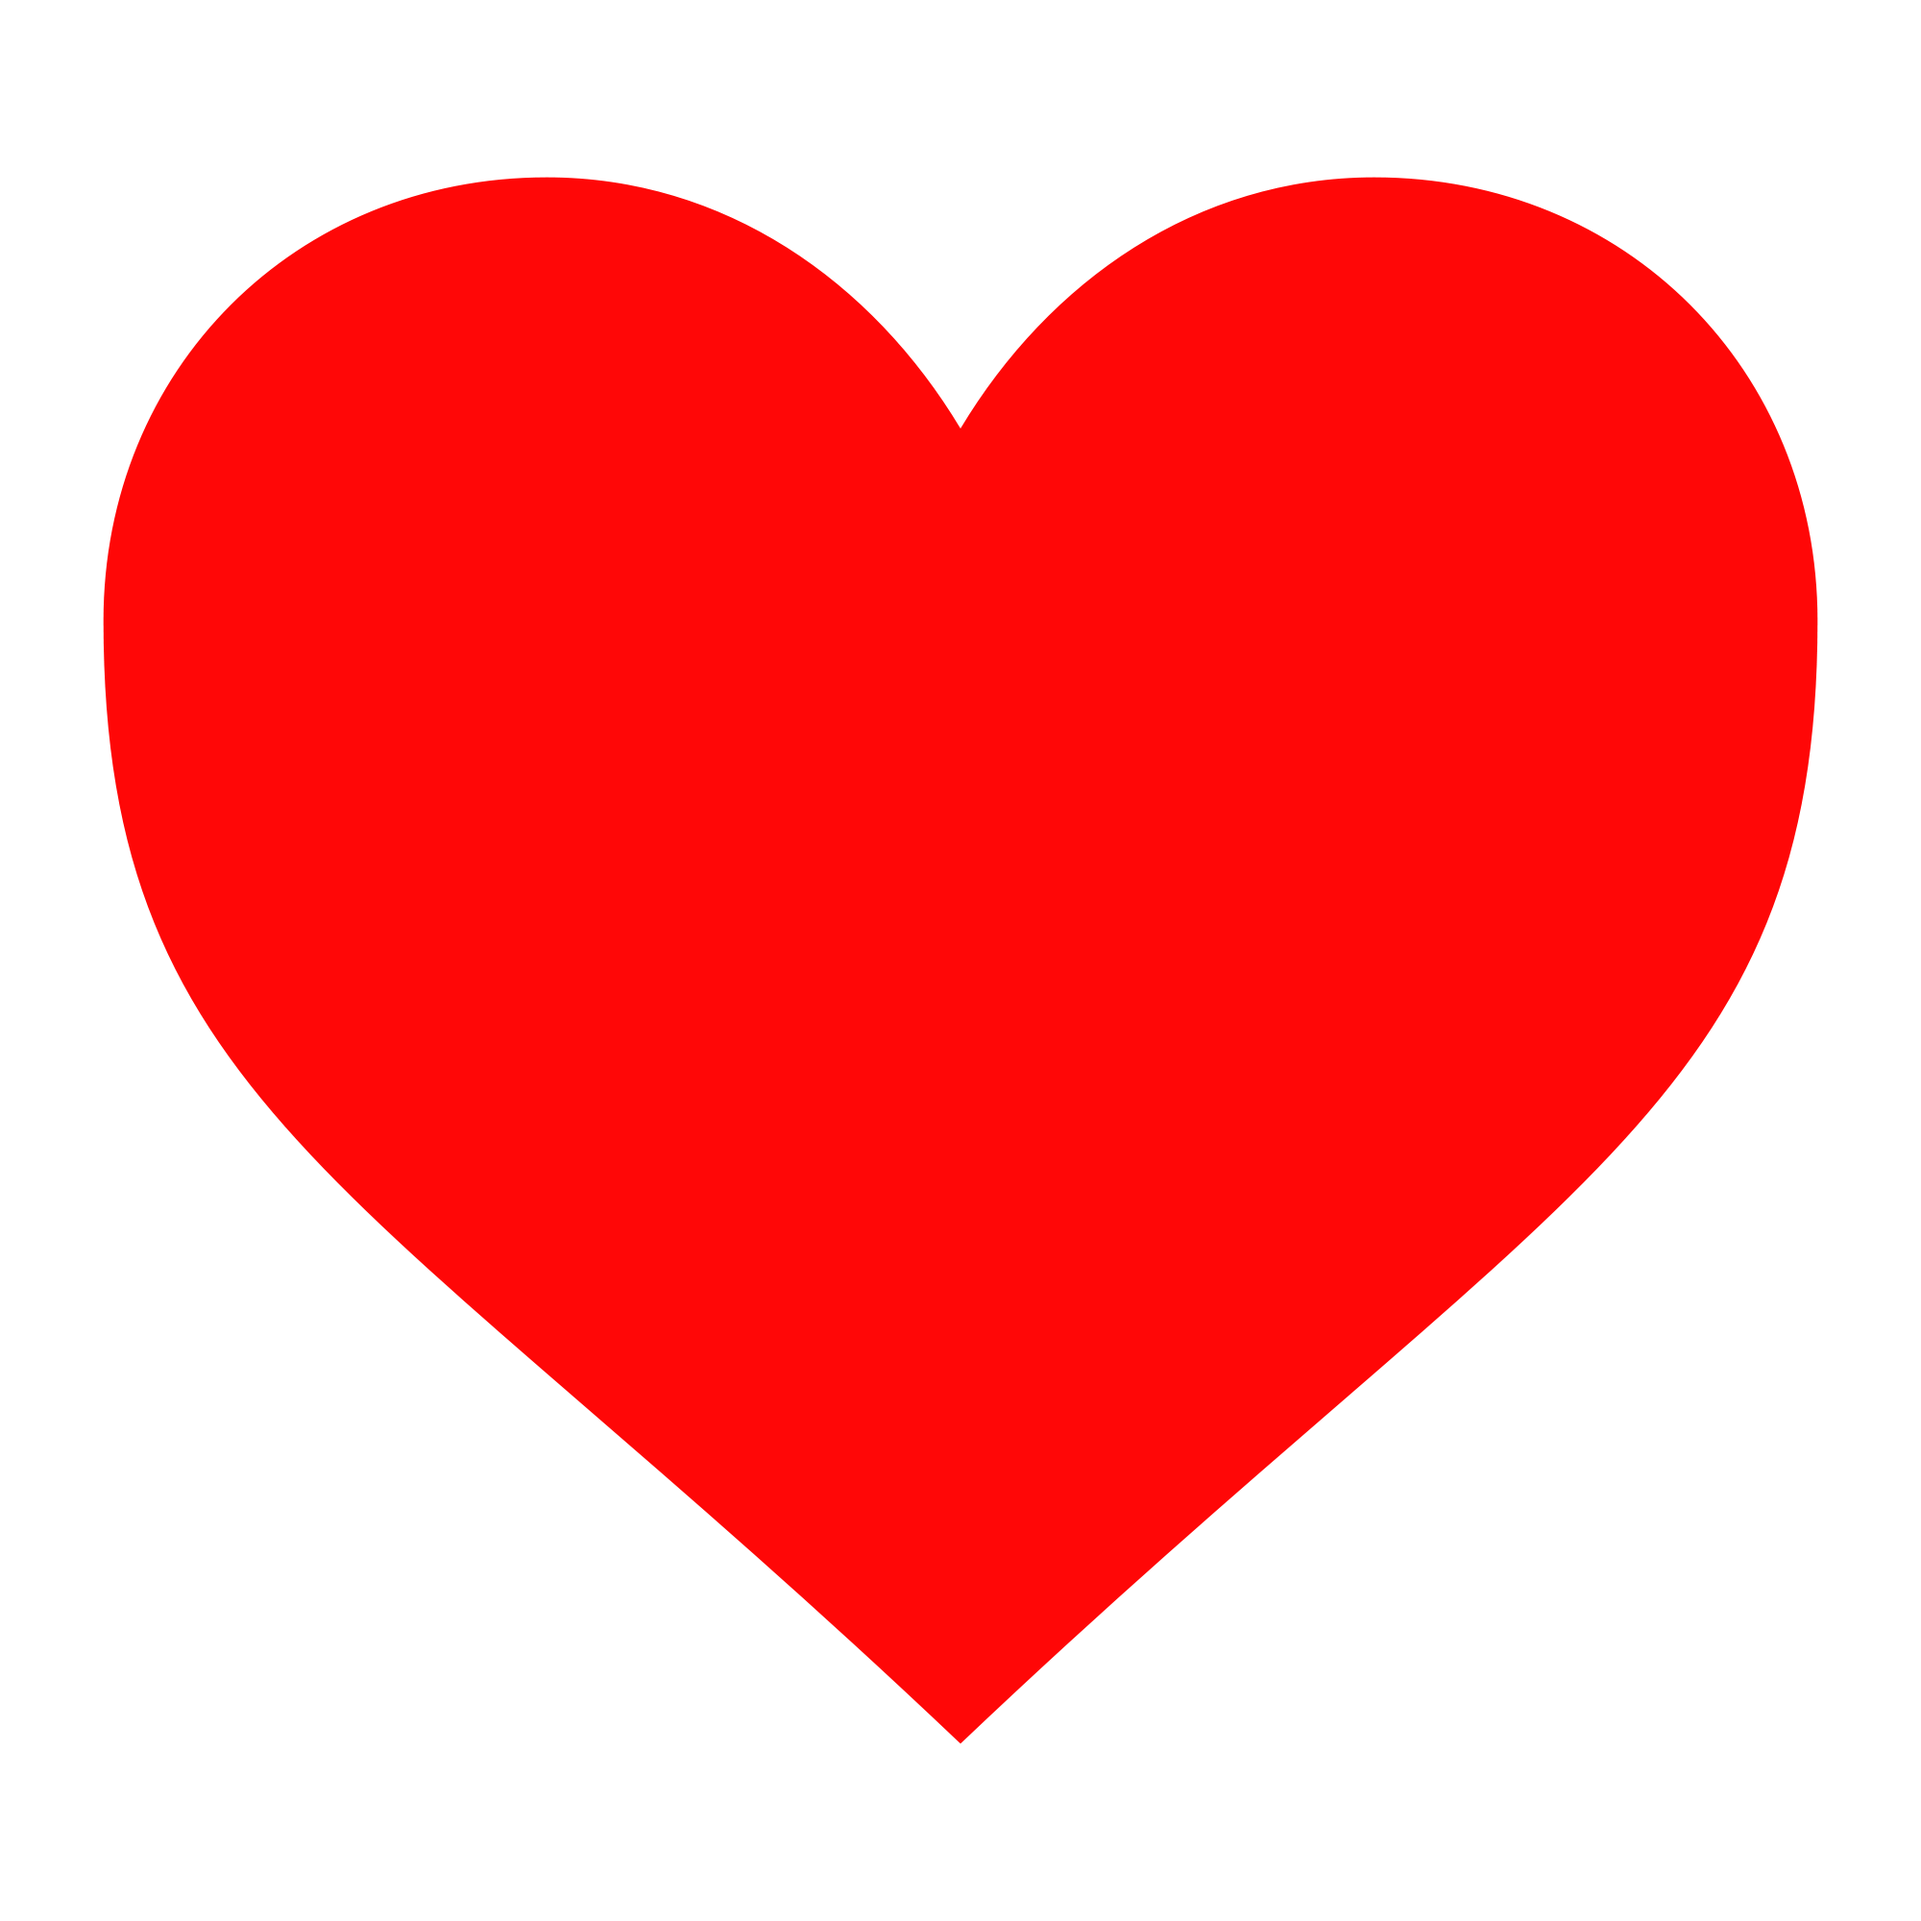
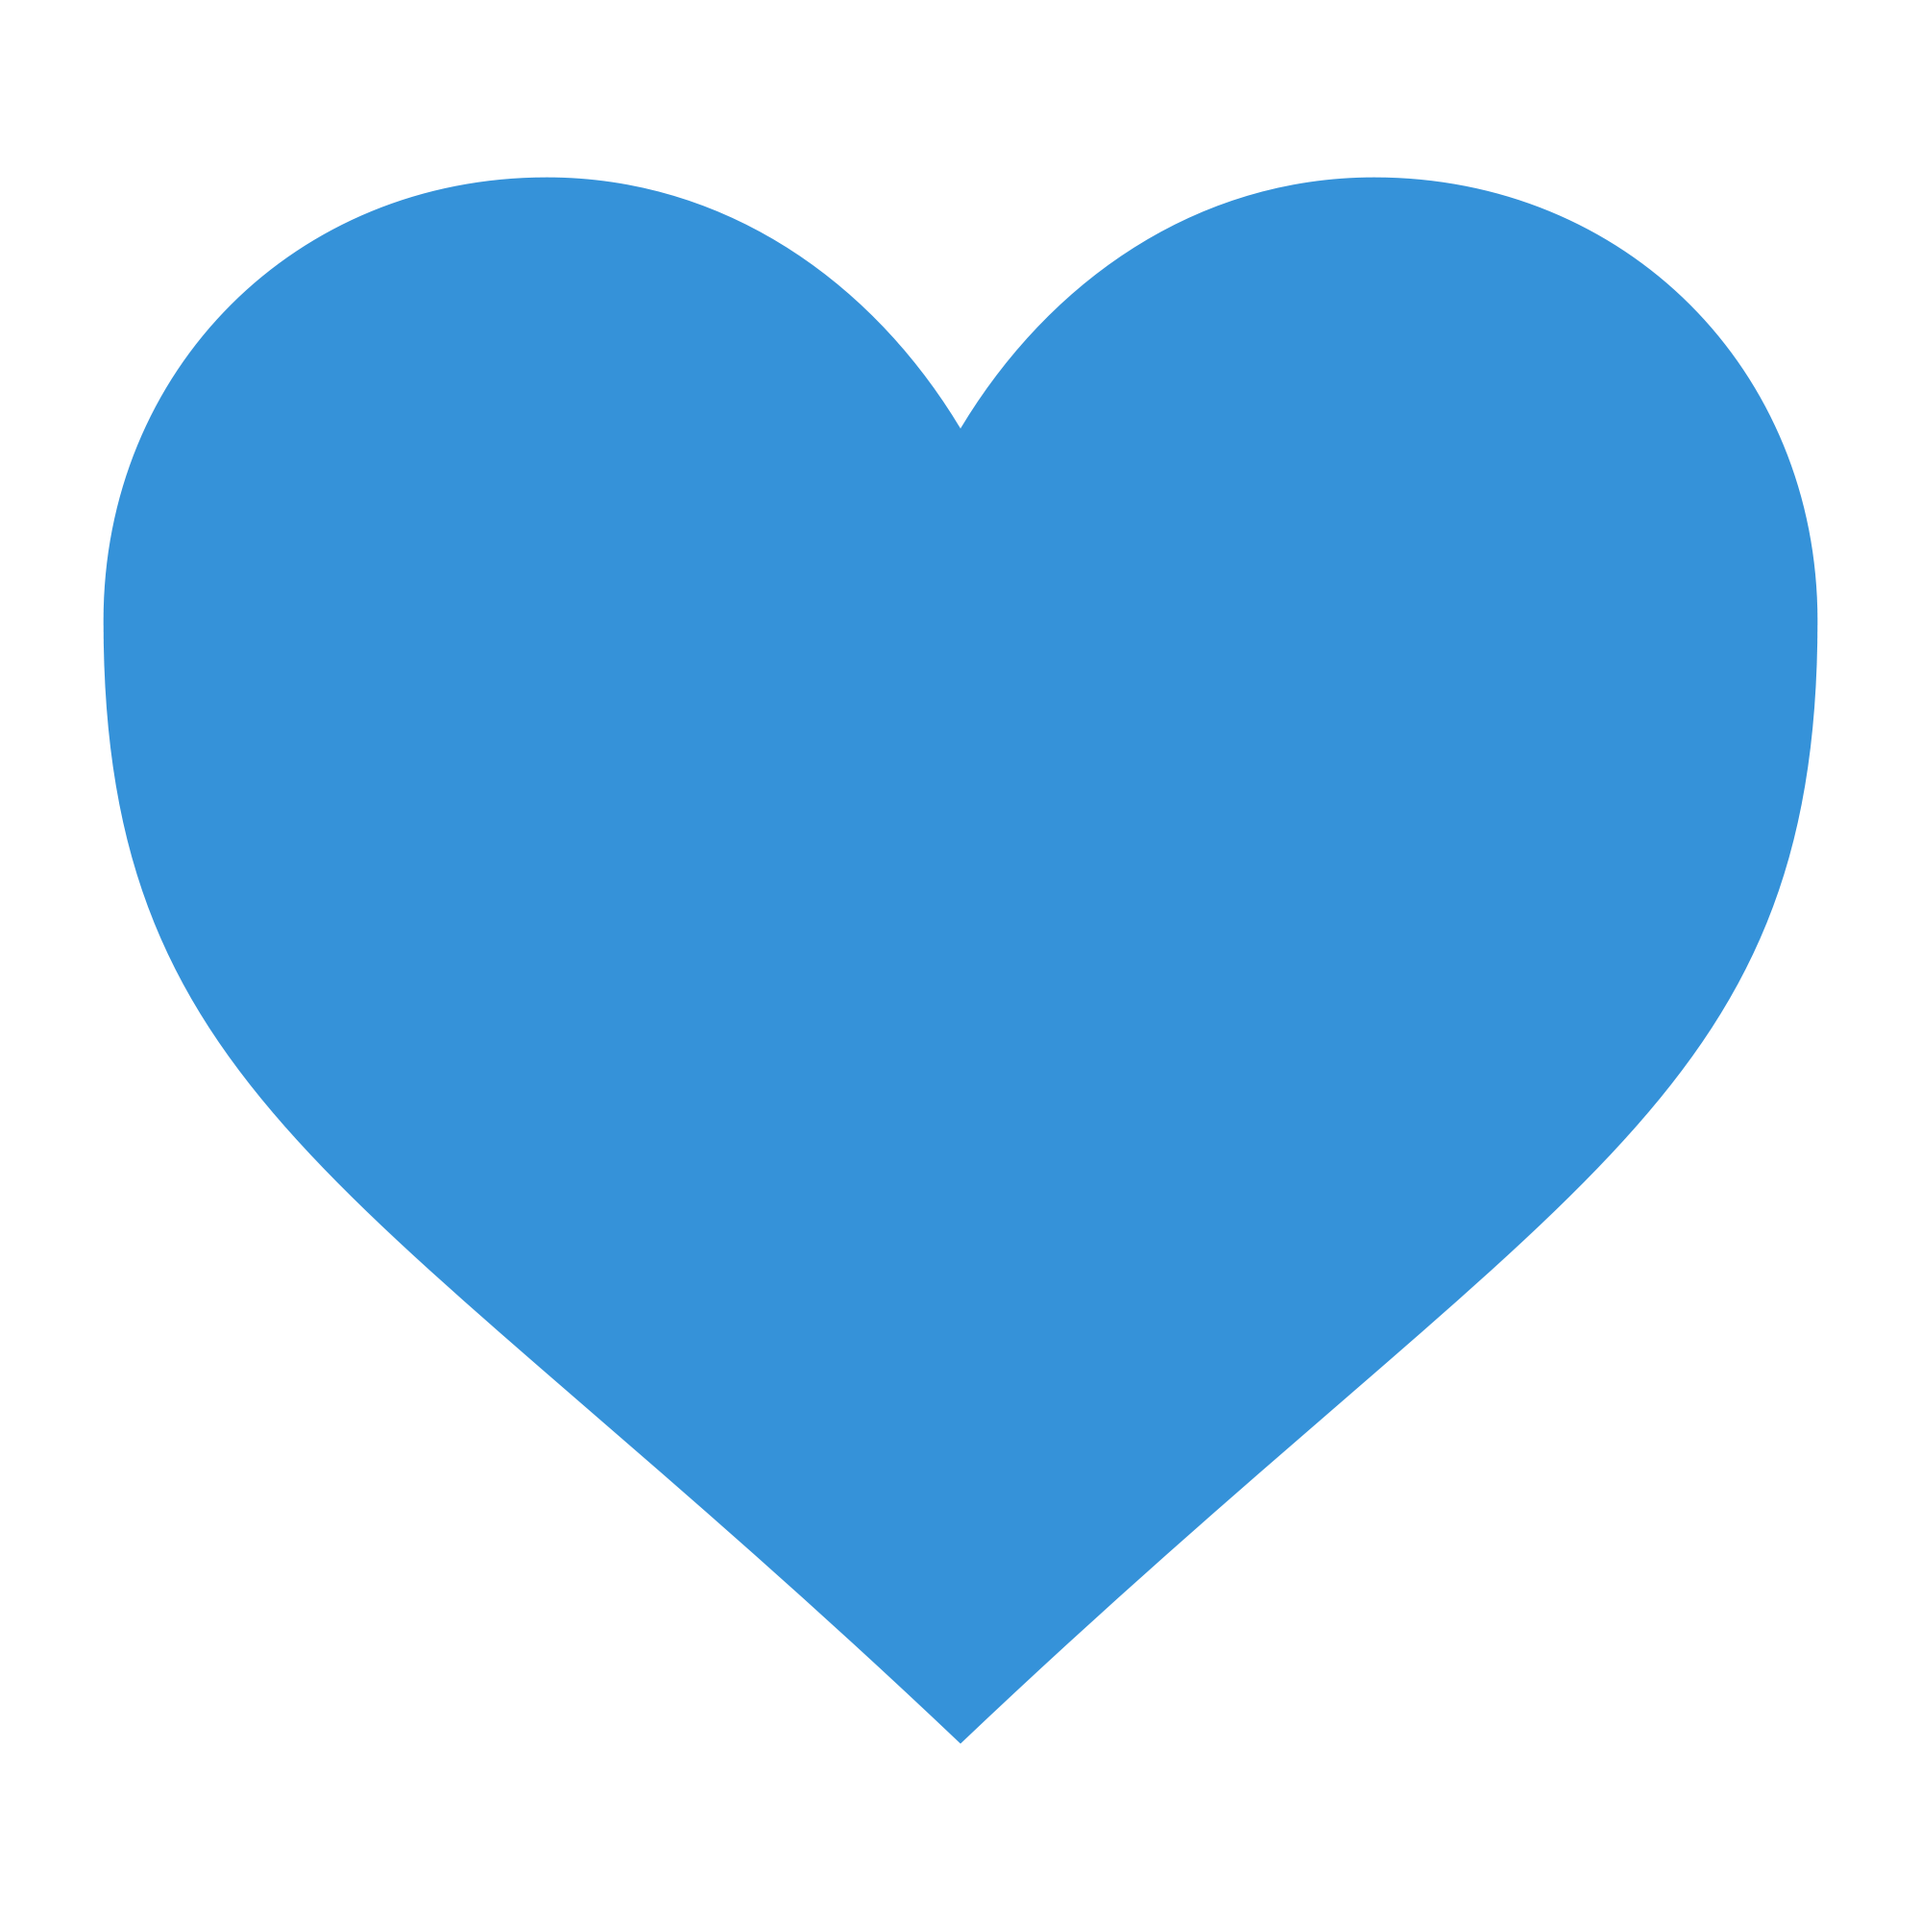
Additions to the Profile Page

diff --git a/css/style.css b/css/style.css
@@ -1218,9 +1218,13 @@ select {
 	height: 9.5em;
 }
 
-.profile-feed img:after {
-	content: '\f461';
-	font-size: 25%;
+.profile-feed img:before {
+    content: '\f101';
+    font: normal 16px/1 'Genericons';
+    display: inline-block;
+    -webkit-font-smoothing: antialiased;
+    -moz-osx-font-smoothing: grayscale;
+	color: blue;
 }
 
 .profile-feed > div:first-of-type {
@@ -1234,4 +1238,20 @@ select {
 	width: 80em;
 	height: 9.5em;
 	margin-bottom: 0.25em;
+}
+
+.red {
+	color: red;
+}
+
+.blue {
+	color: blue;
+}
+
+.green {
+	color: green;
+}
+
+.yellow {
+	color: yellow;
 }

diff --git a/css/mobile.css b/css/mobile.css
@@ -1,1 +1,3 @@
-@media
+@media (max-width: 960px) {
+	
+}
